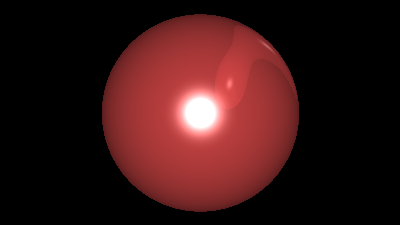
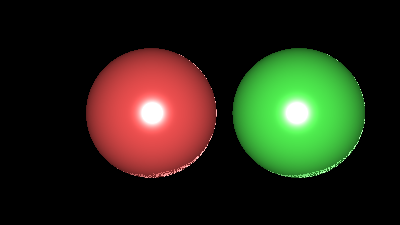
reflection bug

diff --git a/src/scene.rs b/src/scene.rs
@@ -32,9 +32,9 @@ impl Scene {
         self.lights.push(light)
     }
 
-    pub fn cast_ray(&self, u: f32, v: f32) -> (Vector3<f32>, Option<Rc<dyn ObjectsTrait>>, Ray) {
+    pub fn cast_ray(&self, origin: Vector3<f32>, u: f32, v: f32) -> (Option<Vector3<f32>>, Option<Rc<dyn ObjectsTrait>>, Ray) {
         let target = self.camera.top_left_start + u * self.camera.x_axis - v * self.camera.y_axis;
-        let ray = Ray::new(self.camera.origin, (target - self.camera.origin).normalize());
+        let ray = Ray::new(origin, (target - origin).normalize());
 
         let mut min_t = std::f32::MAX;
         let mut min_obj: Option<Rc<dyn ObjectsTrait>>= None;
@@ -51,17 +51,21 @@ impl Scene {
             };
         }
 
-        let intersection_point = ray.at(min_t);
+        let intersection_point = if min_t != std::f32::MAX { Some(ray.at(min_t)) } else { None };
 
         return (intersection_point, min_obj, ray);
     }
 
-    pub fn get_color_ray(&self, intersection_point: Vector3<f32>, obj: &Rc<dyn ObjectsTrait>, ray: &Ray, depth: i32) -> Vector3<f32> {
-
+    pub fn get_color_ray(&self, intersection_point: &Option<Vector3<f32>>, obj: &Rc<dyn ObjectsTrait>, ray: &Ray, depth: i32) -> Vector3<f32> {
+        
         let mut pixel_color = Vector3::<f32>::zeros();
 
+        if intersection_point.is_none() {
+            return pixel_color;
+        }
+
         let (ka, kd, ks, ns, reflectivity, material_color) = obj.get_texture();
-        let normal = obj.get_normal(intersection_point).normalize();
+        let normal = obj.get_normal(&intersection_point.unwrap()).normalize();
         let reflection = (ray.direction - (2.0 * ray.direction.dot(&normal) * normal)).normalize();
 
         // Phong Model
@@ -71,7 +75,7 @@ impl Scene {
 
         for light in &self.lights {
 
-            let light_dir = (light.position - intersection_point).normalize();
+            let light_dir = (light.position - intersection_point.unwrap()).normalize();
 
             diffuse += {
                 let dot_prod = light_dir.dot(&normal).clamp(0.0, 1.0);
@@ -90,13 +94,13 @@ impl Scene {
             return pixel_color;
         }
 
-        let (reflected_intersection_point, min_obj, reflected_ray) = self.cast_ray(reflection.x, reflection.y);
+        let (reflected_intersection_point, new_obj, reflected_ray) = self.cast_ray(intersection_point.unwrap(), reflection.x, reflection.y);
         
-        if min_obj.is_none() { 
+        if new_obj.is_none() { 
             return pixel_color; 
         }
         
-        return pixel_color + reflectivity * self.get_color_ray(reflected_intersection_point, &min_obj.unwrap(), &reflected_ray, depth + 1);
+        return pixel_color + reflectivity * self.get_color_ray(&reflected_intersection_point, &new_obj.unwrap(), &reflected_ray, depth + 1);
     }
 
 }

diff --git a/src/main.rs b/src/main.rs
@@ -27,6 +27,8 @@ fn main() {
         1.0
     );
 
+    println!("widht = {} | height = {}", canvas_width, canvas_height);
+
     let mut scene = Scene::new(camera);
     
     // Create grid of balls
@@ -70,25 +72,63 @@ fn main() {
     let red  = Rc::new(
         UniformTexture::new(
             1.0,
-            1.0,
+            1.5,
             1.0,
             15.0,
-            0.15,
+            0.3,
             Vector3::new(0.3, 0.1, 0.1)
         )
+    );
+    
+    let green  = Rc::new(
+        UniformTexture::new(
+            1.0,
+            1.5,
+            1.0,
+            15.0,
+            0.3,
+            Vector3::new(0.1, 0.3, 0.1)
+        )
+    );
+
+    // let blue = Rc::new(
+    //     UniformTexture::new(
+    //         1.0,
+    //         1.0,
+    //         1.0,
+    //         15.0,
+    //         0.3,
+    //         Vector3::new(0.3, 0.3, 0.8)
+    //     )
+    // );
+
+    // scene.add_object(
+    //     Rc::new(Sphere {
+    //         center: Vector3::new(2.0, -10.0, 13.0),
+    //         radius: 10.0,
+    //         textmat: blue.clone()
+    //     })
+    // );
+
+    scene.add_object(
+        Rc::new(Sphere {
+            center: Vector3::new(-0.75, 0.0, 7.0),
+            radius: 1.0,
+            textmat: red.clone()
+        })
     );
 
     scene.add_object(
         Rc::new(Sphere {
-            center: Vector3::new(0.0, 0.0, 7.0),
-            radius: 1.5,
-            textmat: red.clone()
+            center: Vector3::new(1.5, 0.0, 7.0),
+            radius: 1.0,
+            textmat: green.clone()
         })
     );
 
     scene.add_light(
         PointLight::new(
-            Vector3::new(0.0, 0.0, 0.0),
+            Vector3::new(0.0, 0.0, -0.0),
             1.5
         )
     );
@@ -100,12 +140,12 @@ fn main() {
             
             let u = x as f32 / canvas_width as f32;
             let v = y as f32 / canvas_height as f32;
-            let offset = y * canvas_width + x;
 
-            if let (intersect_point, Some(min_obj), ray) = scene.cast_ray(u, v) {
+            if let (intersect_point, Some(min_obj), ray) = scene.cast_ray(scene.camera.origin, u, v) {
                 
-                let pixel_color = scene.get_color_ray(intersect_point, &min_obj, &ray,0);     
+                let pixel_color = scene.get_color_ray(&intersect_point, &min_obj, &ray,0);     
                 
+                let offset = y * canvas_width + x;
                 pixels[offset * 3] = (255.0 * pixel_color.x)  as u8;
                 pixels[offset * 3 + 1] = (255.0 * pixel_color.y) as u8;
                 pixels[offset * 3 + 2] = (255.0 * pixel_color.z) as u8;

diff --git a/src/objects.rs b/src/objects.rs
@@ -9,7 +9,7 @@ use { crate::texture_material::TextureMaterial, crate::ray::Ray };
 pub trait ObjectsTrait {
     fn intersects(&self, ray: &Ray) -> Option<f32>;
 
-    fn get_normal(&self, point: Vector3<f32>) -> Vector3<f32>;
+    fn get_normal(&self, point: &Vector3<f32>) -> Vector3<f32>;
 
     fn get_texture(&self) -> (f32, f32, f32, f32, f32, Vector3<f32>);
 }
@@ -39,7 +39,7 @@ impl ObjectsTrait for Sphere {
         return Some(root);
     }
 
-    fn get_normal(&self, point: Vector3<f32>) -> Vector3<f32> {
+    fn get_normal(&self, point: &Vector3<f32>) -> Vector3<f32> {
         return point - self.center;
     }
 
